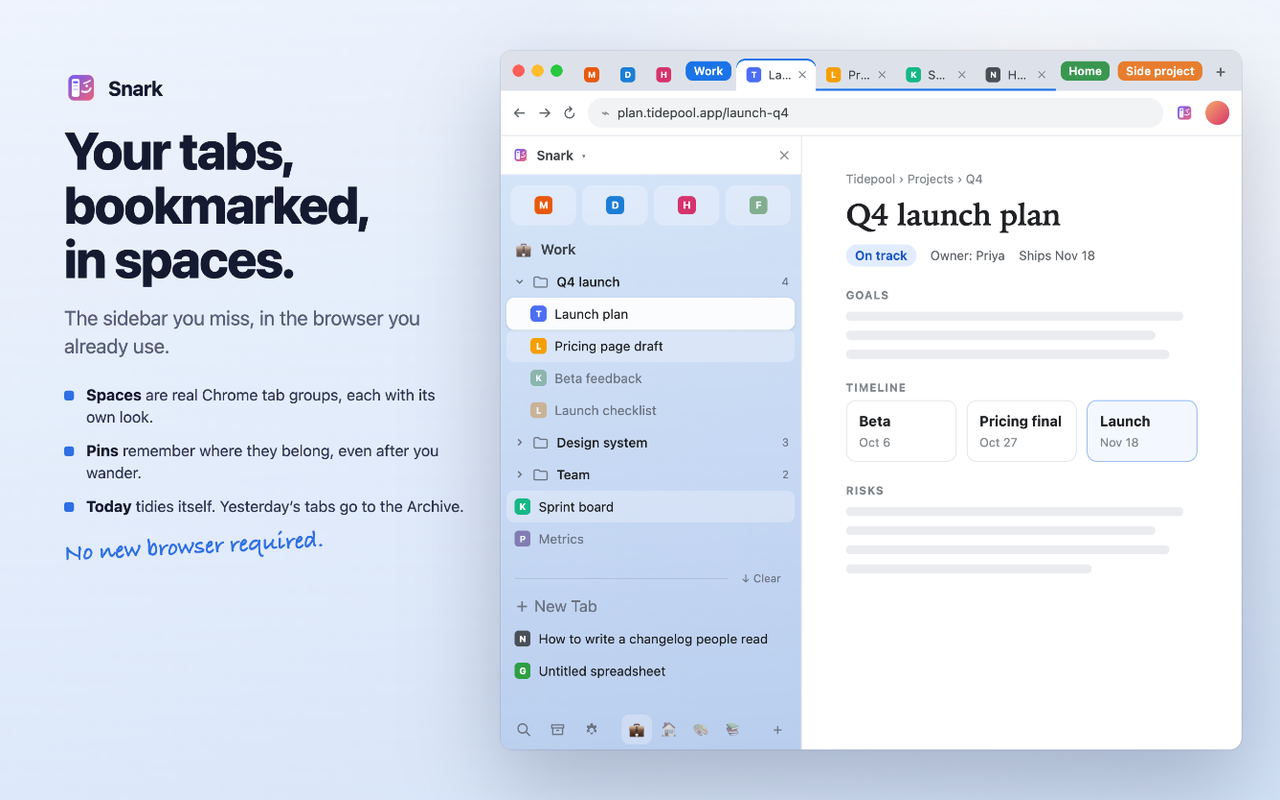
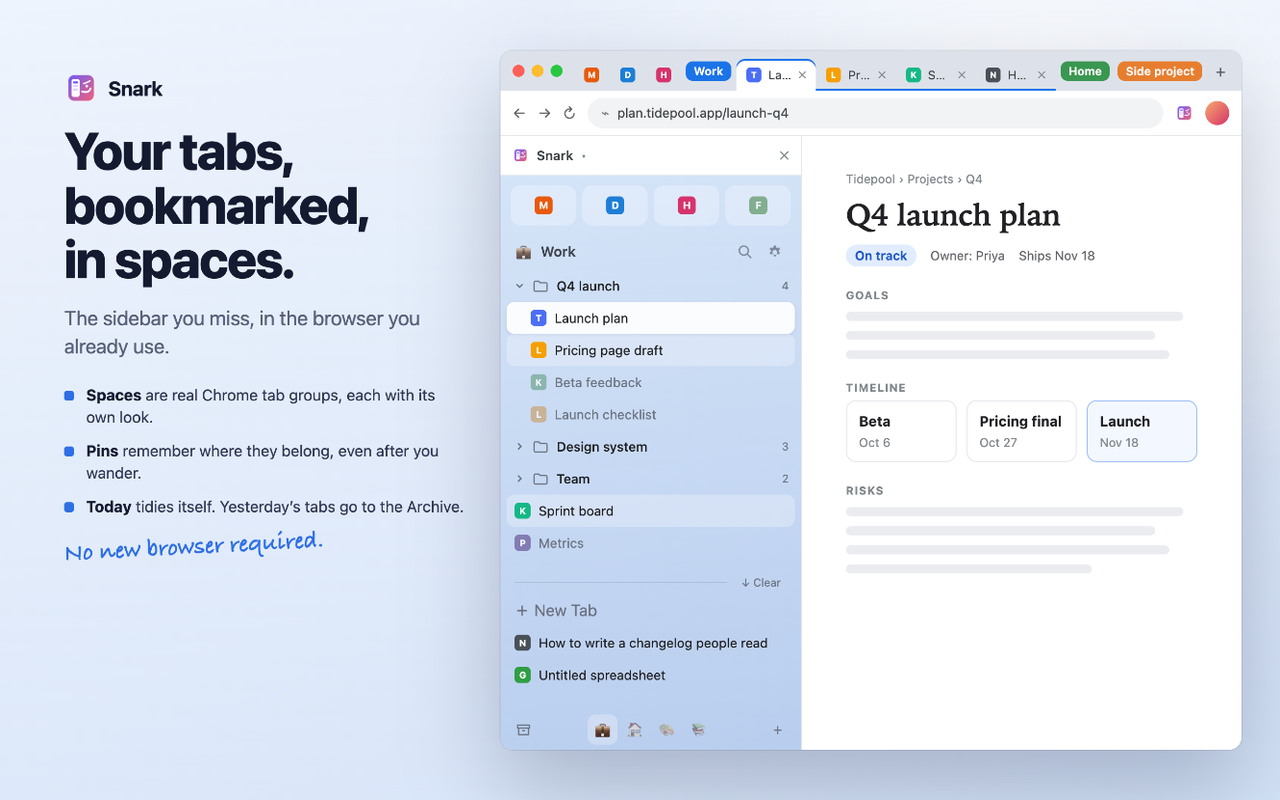
1.4.2: simpler bottom bar (Archive · spaces · +); search and settings in the header; store images re-shot

diff --git a/sidepanel/sidepanel.js b/sidepanel/sidepanel.js
@@ -23,6 +23,11 @@ const ARCHIVE_OPTS = [['0', 'Never'], ['24', '1 day'], ['168', '1 week'], ['720'
 const ARCHIVE = `<svg viewBox="0 0 16 16"><path d="M2 3.5h12v3H2zM3 6.5v6.5h10V6.5M6.5 9h3" fill="none" stroke="currentColor" stroke-width="1.3" stroke-linejoin="round"/></svg>`;
 const SEARCH = `<svg viewBox="0 0 16 16"><circle cx="7" cy="7" r="4.5" fill="none" stroke="currentColor" stroke-width="1.4"/><path d="M10.5 10.5L14 14" stroke="currentColor" stroke-width="1.4" stroke-linecap="round"/></svg>`;
 const MOD = /Mac/.test(navigator.platform ?? '') ? '⌘' : 'Ctrl+';
+// Search and Settings sit at the right of whatever header is on screen (space, Archive, Settings).
+const headTools = () => `<span class="head-tools">
+  <button data-act="search" title="Search (${MOD}K)">${SEARCH}</button>
+  <button data-act="gear" class="${ui.view === 'settings' ? 'on' : ''}" title="Settings">${GEAR}</button>
+</span>`;
 
 const $ = (s) => document.querySelector(s);
 const esc = (s) => String(s ?? '').replace(/[&<>"']/g, (c) => `&#${c.charCodeAt(0)};`);
@@ -261,6 +266,7 @@ function iconHtml(s) {
 
 function emptyPageHtml() {
   return `<section class="page" data-space="">
+    <div class="row page-head">${headTools()}</div>
     <div class="empty muted">No spaces yet.<br><br><button class="primary" data-act="new-space">Create a space</button></div>
     ${looseHtml()}
   </section>`;
@@ -274,6 +280,7 @@ function pageHtml(s) {
     <div class="row page-head" data-kind="space" data-id="${k}">
       <span class="sicon">${iconHtml(s)}</span><span class="title">${esc(s.title || 'Unnamed group')}</span>
       <span class="acts"><button data-act="menu" title="Space options">⋯</button></span>
+      ${headTools()}
     </div>
     <div class="tree">
       ${s.root ? childrenHtml(s.root.id, 0) : ''}
@@ -347,14 +354,19 @@ function tabHtml(t, depth) {
 
 function renderBar() {
   const on = state.cfg.groupPins.enabled;
+  // Archive on the left, the spaces centered, ＋ on the right. (Settings only lands here while
+  // spaces are off, since there's no space header to hold it then.)
   $('#bar').innerHTML = `
-    <button class="bar-btn" data-act="search" title="Search (${MOD}K)">${SEARCH}</button>
-    <button class="bar-btn${ui.view === 'archive' ? ' on' : ''}" data-act="view-archive" data-drop="archive" title="Archive"${on ? '' : ' hidden'}>${ARCHIVE}</button>
-    <button class="bar-btn${ui.view === 'settings' ? ' on' : ''}" data-act="gear" title="Settings">${GEAR}</button>
+    ${on
+      ? `<button class="bar-btn${ui.view === 'archive' ? ' on' : ''}" data-act="view-archive" data-drop="archive" title="Archive">${ARCHIVE}</button>`
+      : `<button class="bar-btn${ui.view === 'settings' ? ' on' : ''}" data-act="gear" title="Settings">${GEAR}</button>`}
     <div class="bar-spaces">${(on ? state.spaces : []).map((s) =>
       `<button class="bar-space${ui.view === 'spaces' && s.key === current ? ' on' : ''}" data-act="goto" data-space="${esc(s.key)}" data-drop="bar" title="${esc(s.title || 'Unnamed group')}">${iconHtml(s)}</button>`
     ).join('')}</div>
-    <button class="bar-btn" data-act="new-space" title="New space"${on ? '' : ' hidden'}>＋</button>`;
+    <button class="bar-btn" data-act="new-space" title="New space"${on ? '' : ' style="visibility:hidden"'}>＋</button>`;
+  // the Settings header is static HTML; keep its gear's state in step
+  $('#settings .view-head .head-tools')?.remove();
+  $('#settings .view-head').insertAdjacentHTML('beforeend', headTools());
 }
 
 function markBar() {
@@ -403,7 +415,7 @@ function archivePageHtml() {
   const closed = state.archive;
   const after = String(state.cfg.autoClear.archiveAfter ?? '720');
   return `<div class="archive-page">
-    <div class="view-head"><span class="sicon">🗄</span><span class="title">Archive</span></div>
+    <div class="view-head"><span class="sicon">🗄</span><span class="title">Archive</span>${headTools()}</div>
     <div class="arch-settings">
       <span class="muted">Empty after</span>
       <span class="seg">${ARCHIVE_OPTS.map(([v, l]) => `<button data-act="arch-after" data-v="${v}" class="${after === v ? 'on' : ''}">${l}</button>`).join('')}</span>

diff --git a/sidepanel/sidepanel.css b/sidepanel/sidepanel.css
@@ -232,3 +232,12 @@ input.rename {
   0%, 40% { box-shadow: inset 0 0 0 2px var(--accent); background: color-mix(in srgb, var(--accent) 20%, transparent); }
   100% { box-shadow: inset 0 0 0 2px transparent; }
 }
+
+/* Search + Settings at the right of the space / Archive / Settings header */
+.head-tools { display: flex; gap: 2px; margin-left: auto; }
+.head-tools button { width: 28px; height: 28px; padding: 0; display: grid; place-items: center; border-radius: 8px; color: var(--muted); }
+.head-tools button svg { width: 16px; height: 16px; }
+.head-tools button:hover { color: var(--fg); }
+.head-tools button.on { color: var(--accent); background: var(--row-open); }
+.page-head .acts { margin-left: auto; }
+.page-head .acts + .head-tools { margin-left: 0; }

diff --git a/README.md b/README.md
@@ -14,7 +14,7 @@ Private by design: no account, no analytics, no servers. See [PRIVACY.md](PRIVAC
 3. Click the toolbar icon to open the sidebar. Pin the icon in the toolbar so it's always there.
 4. After you edit any file, click the reload icon on the extension's card. Close and reopen the sidebar to pick up changes to the sidebar itself.
 
-**⌘B** (Ctrl+B on Windows/Linux) opens and closes the sidebar. Settings and the Archive open from the bottom bar (⚙ and 🗄) as their own screens; click a space icon or press Esc to go back.
+**⌘B** (Ctrl+B on Windows/Linux) opens and closes the sidebar. The Archive opens from 🗄 in the bottom bar and Settings from ⚙ at the top right, next to 🔍 search. Each is its own screen; click a space icon or press Esc to go back.
 
 **Moving the folder:** the manifest's `key` gives Snark a fixed ID (`ehphddjhccoiekiolhdhjcngcilbhijl`). But **removing an extension in Chrome deletes its data**, so before moving or re-adding the folder, export a backup: **⚙ → Backup → Export**. Then click **Load unpacked** and choose the new folder; with the same ID, Chrome should update the existing install. If Chrome adds a second copy instead, remove the old one, then use **Import** and choose your agent folder again. Export and Import are also how you move to another computer or Chrome profile.
 
@@ -34,7 +34,7 @@ Private by design: no account, no analytics, no servers. See [PRIVACY.md](PRIVAC
  NOT IN A SPACE · 1
    Hacker News                 ← ungrouped tabs (any page)
 └─────────────────────────┘
-  🗄 ⚙   💼  🏠  📚    ＋        ← Archive · Settings · space icons · new space
+  🗄       💼  🏠  📚       ＋     ← Archive · space icons · new space
 ```
 
 ### Favorites
@@ -108,7 +108,7 @@ Private by design: no account, no analytics, no servers. See [PRIVACY.md](PRIVAC
 ### Search (⌘K)
 - **⌘K** (Ctrl+Shift+K on Windows/Linux), "Search Snark", opens search from anywhere.
   - **On a web page:** it appears centered over the page, with the page dimmed.
-  - **In the sidebar** (or press **/**, or click 🔍), and on pages extensions can't draw on (New Tab, `chrome://` pages, the Web Store): it opens as a small window centered over your browser window. Chrome can't move keyboard focus from the sidebar into a page.
+  - **In the sidebar** (or press **/**, or click 🔍 at the top right), and on pages extensions can't draw on (New Tab, `chrome://` pages, the Web Store): it opens as a small window centered over your browser window. Chrome can't move keyboard focus from the sidebar into a page.
   - **While it's ⌘K, websites don't get ⌘K**, including Slack's quick switcher, Google Docs' insert link, and GitHub, Notion and Linear search. To change it, use `chrome://extensions/shortcuts`. If you installed Snark before 1.4.1, Chrome may still have it on ⌘⇧K; set it there.
 - Type to find any pin, folder, space, favorite, open tab, archived item or closed tab. Every word has to match somewhere: in the title, the folder path (`lisbon flights`), the URL or a note. Small typos are fine (`sprnt` finds Sprint board).
 - **↵** opens the result **and shows it in the sidebar** (opening the sidebar if it's closed): it switches to the result's space, expands its folders, scrolls to it and highlights it for a moment. **⌘↵** (Ctrl+↵) only shows it in the sidebar. **↑/↓** move, and **Esc** clears what you typed, then closes. Clicking outside, or pressing the shortcut again, also closes it.

diff --git a/CHANGELOG.md b/CHANGELOG.md
@@ -1,5 +1,10 @@
 # Changelog
 
+## 1.4.2
+
+- **A simpler bottom bar:** 🗄 Archive on the left, your spaces centered, ＋ on the right.
+- **🔍 Search and ⚙ Settings moved to the top right**, beside the space name (and on the Archive and Settings screens).
+
 ## 1.4.1
 
 - **Search Snark is ⌘K** on Mac, everywhere: over the page, or as a centered window when you press it in the sidebar. Snark works out which one you meant. Windows and Linux keep Ctrl+Shift+K, because Ctrl+K is Chrome's search-the-web shortcut.
